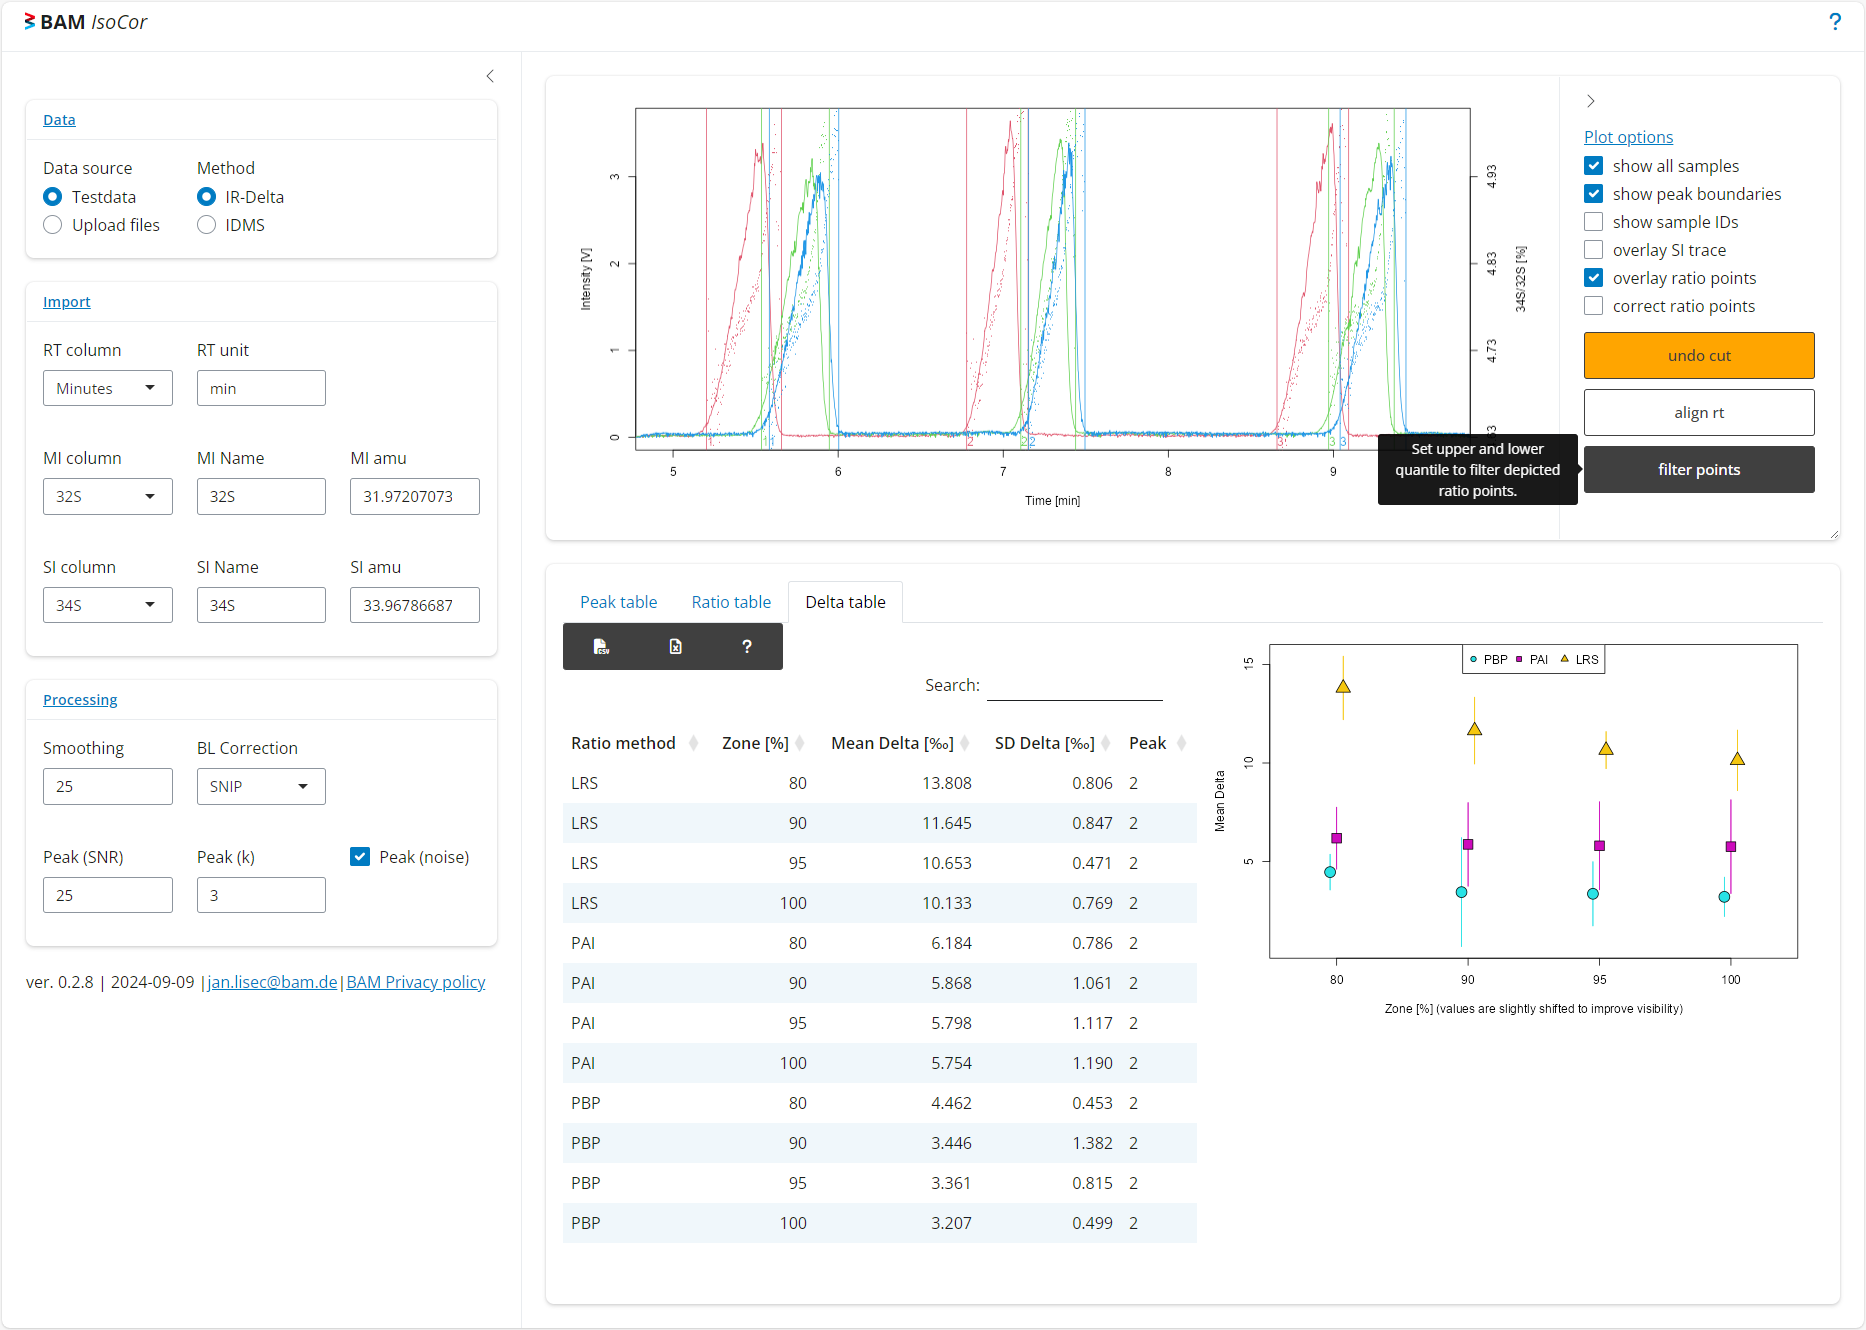
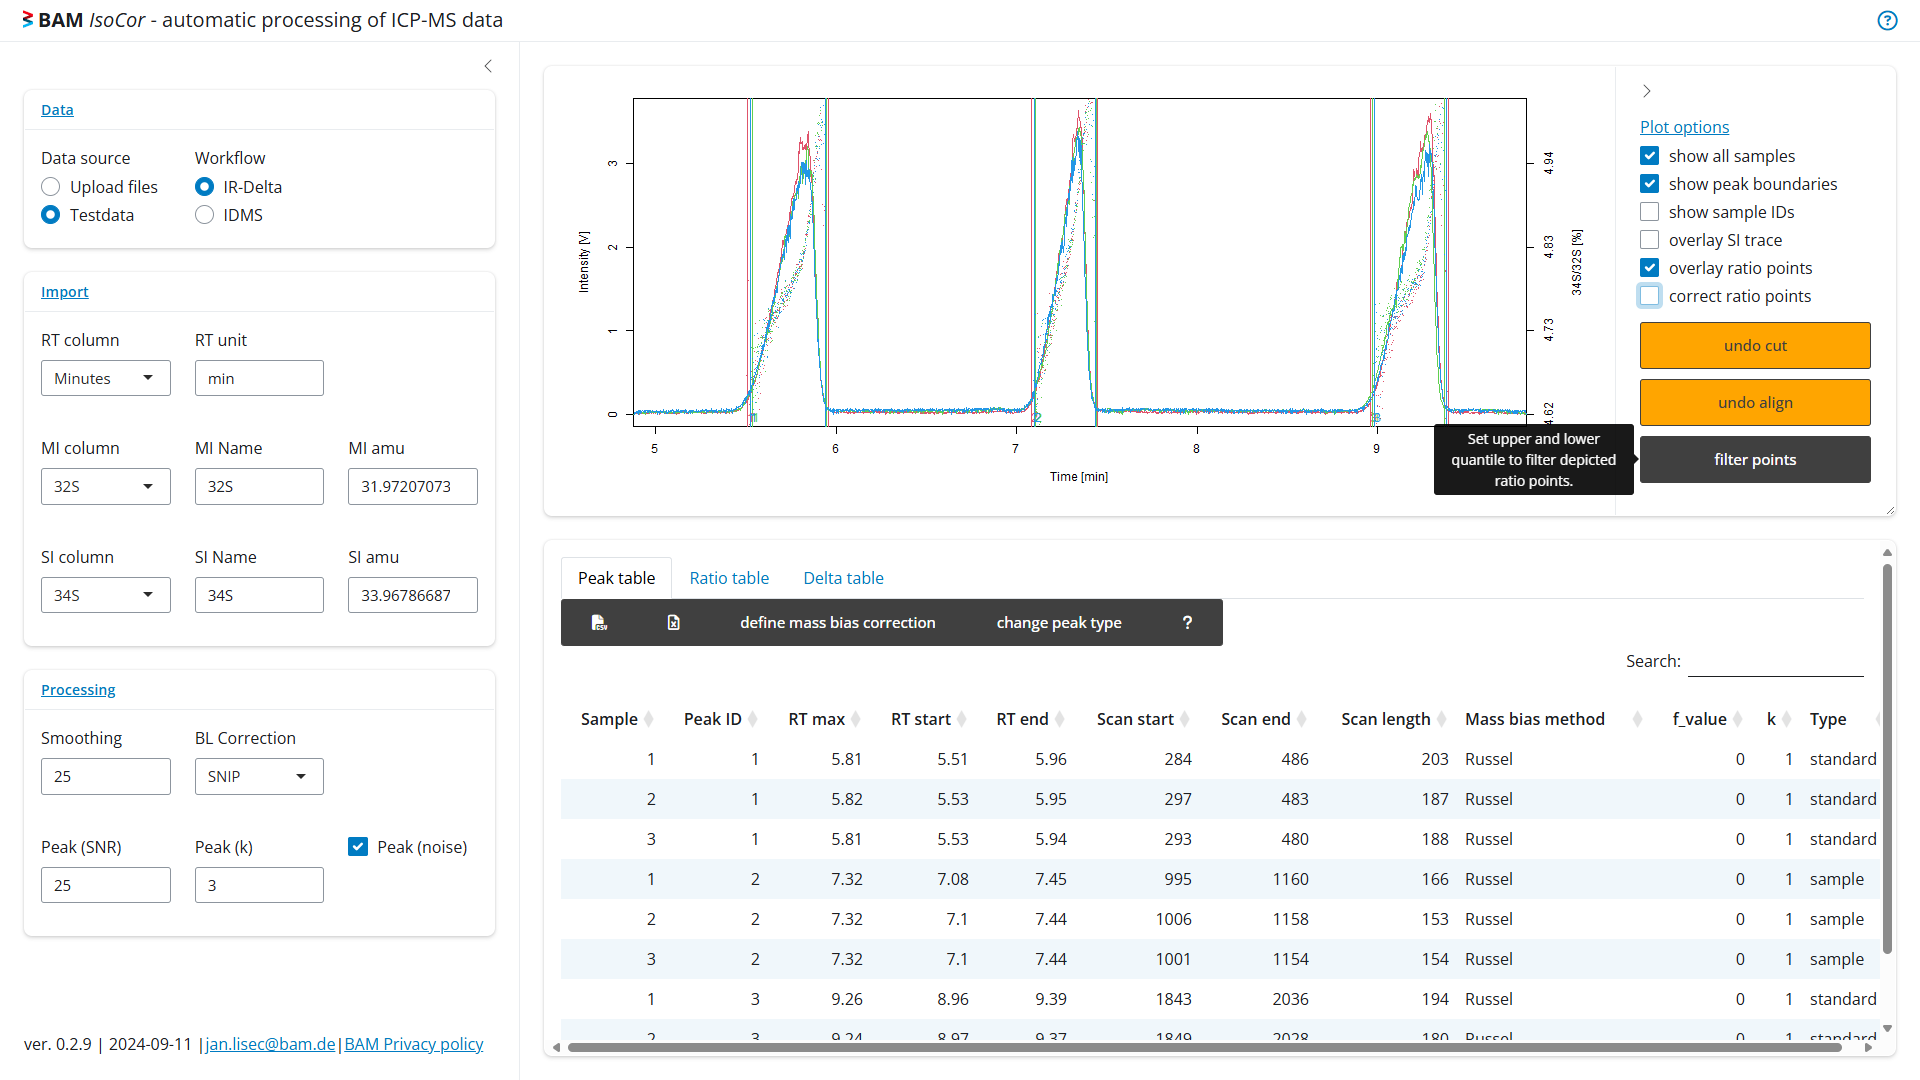
tmp-aiming to fix MacOS problem

diff --git a/README.md b/README.md
@@ -46,7 +46,7 @@ IsoCor::ic_app()
 ```
 
 <figure>
-<img src="man/figures/README-Screenshot.png?raw=true" title="Screenshot"
+<img src="dev/Screenshot.png?raw=true" title="Screenshot"
 alt="Screenshot IsoCor-App" />
 <figcaption aria-hidden="true">Screenshot IsoCor-App</figcaption>
 </figure>
